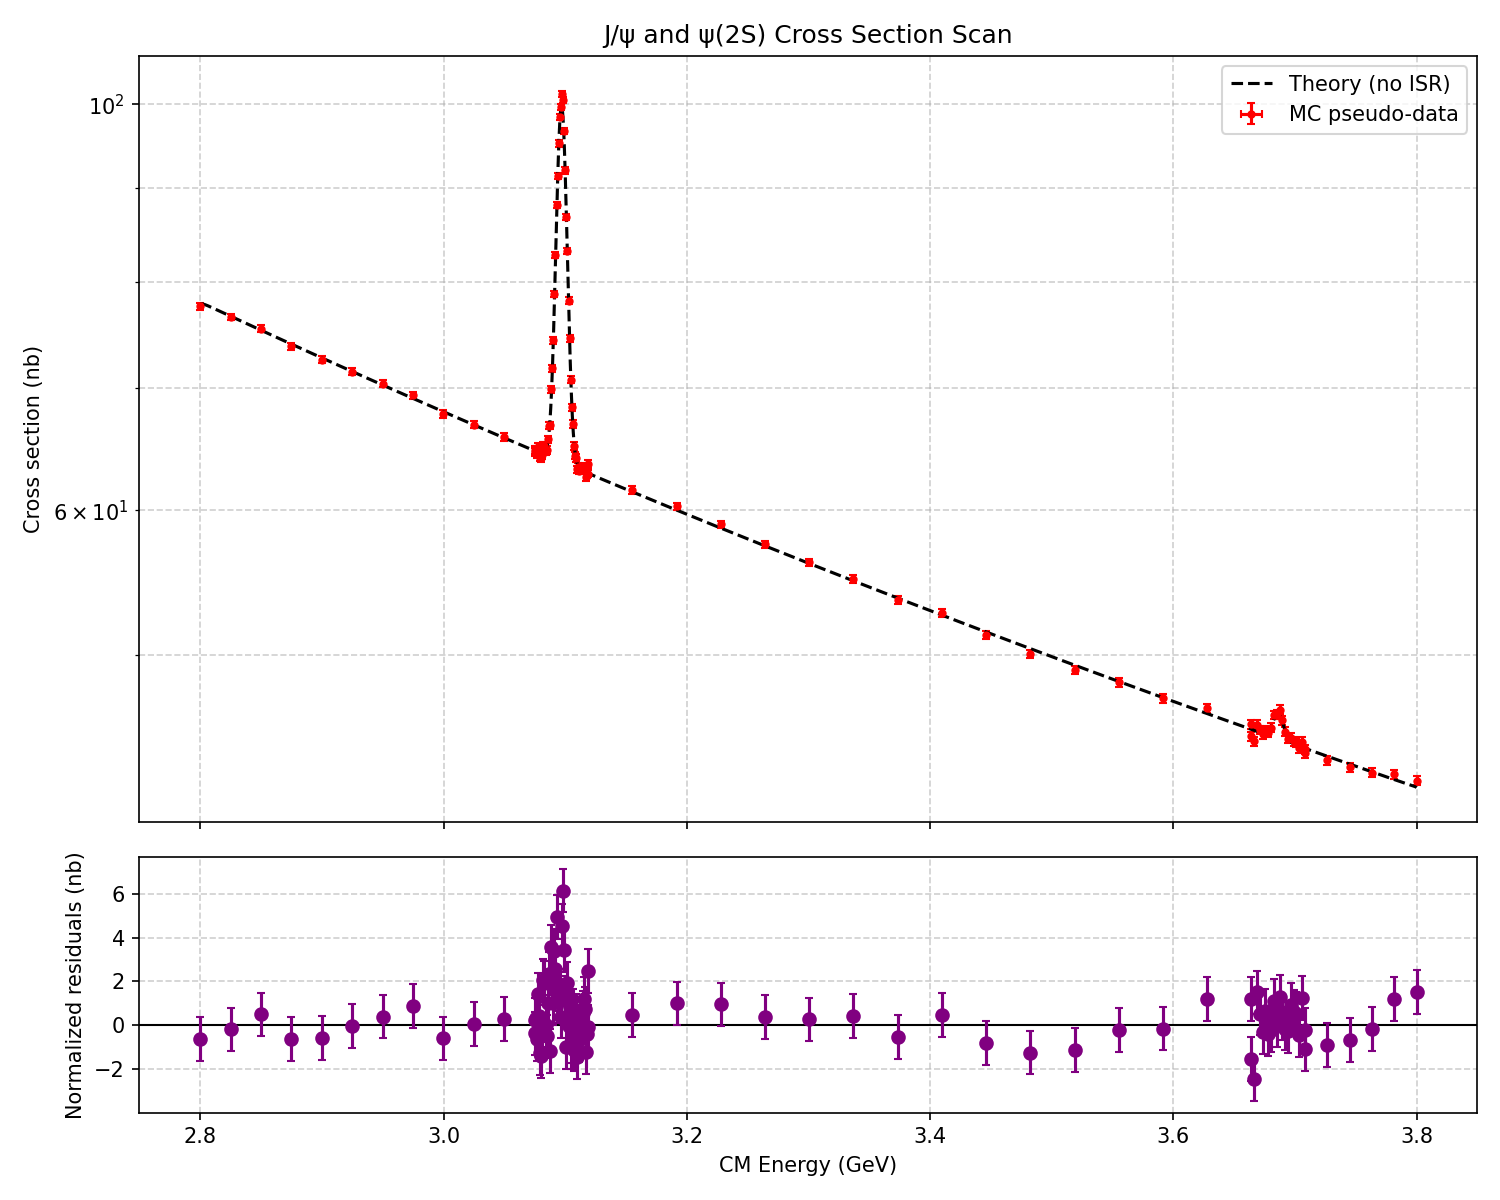
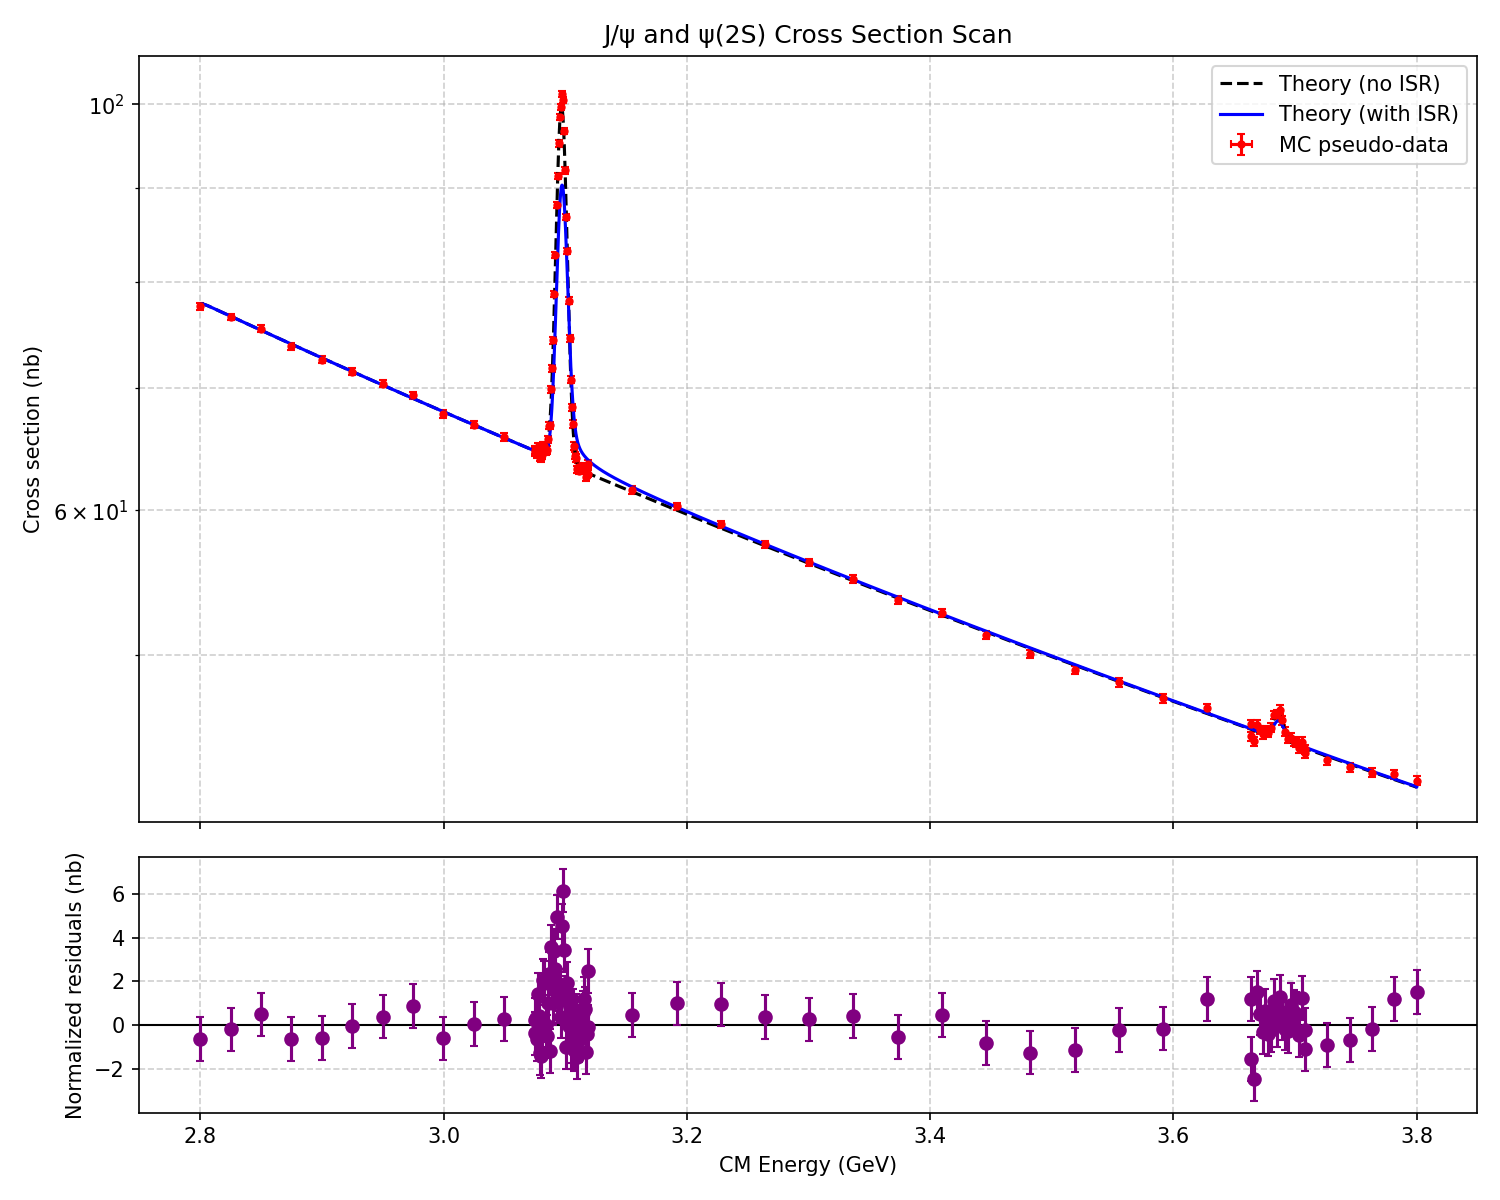
Deleted old graphs

diff --git a/main.py b/main.py
@@ -72,7 +72,7 @@ def main():
         sigma_noisr=sigma_noisr_curve,
         sigma_isr=sigma_isr_curve,
         residuals=True,
-        savepath="scan_plot.png",
+        savepath="resonance_isr.png" if simu.isr_on else "resonance.png",
     )
 
 
